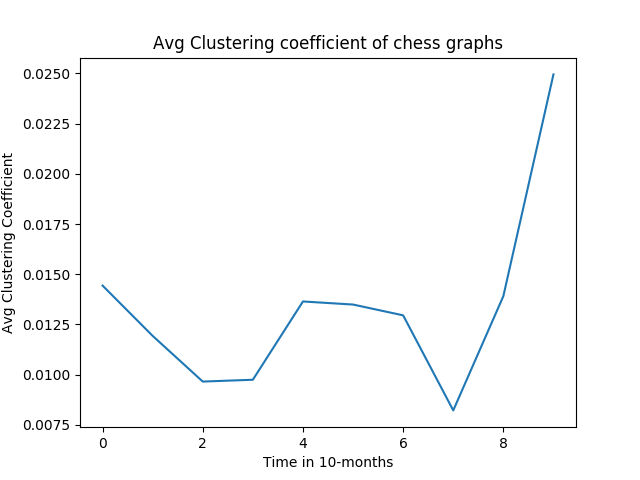
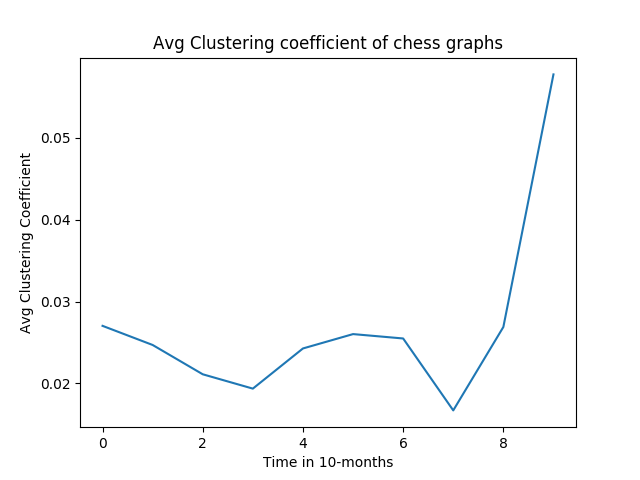
alternative clustering coefficient

diff --git a/analysis/utils/time_evolution.py b/analysis/utils/time_evolution.py
@@ -1,6 +1,7 @@
 from __future__ import division
 import matplotlib.pyplot as plt
 import snap
+from clustering import alternative_clust
 
 
 def density_evolution(graphs, name, time_units, directed=True, verbose=False, duration=None):
@@ -42,11 +43,28 @@ def clust_evolution(graphs, name, time_units, verbose=False, duration=None):
         plt.show()
 
 
+def alternate_clust_evolution(graphs, name, time_units, verbose=False, duration=None):
+    """Plot the time evolution of the alternate avg clustering coefficient of snap graph in graphs"""
+    Y = []
+    for g in graphs:
+        Y.append(alternative_clust(g))
+    X = range(len(Y))
+    if duration is not None:
+        X = range(duration[0], duration[1]+1)
+    plt.plot(X, Y)
+    plt.xlabel("Time in {}".format(time_units))
+    plt.ylabel("Alternate Clustering Coefficient")
+    plt.title("Alternate Clustering coefficient of {} graphs".format(name))
+    plt.savefig("clustAlt_time_{}".format(name))
+    if verbose:
+        plt.show()
+
+
 def active_nodes_evolution(graphs, name, time_units, verbose=False, duration=None):
     """Plot the time evolution of the number of nodes with degree of at least one of snap graph in graphs"""
     Y = []
     for g in graphs:
-        Y.append(g.GetNodes()-snap.CntInDegNodes(g, 0)-snap.CntOutDegNodes(g, 0))
+        Y.append(g.GetNodes()-snap.CntDegNodes(g, 0))
     X = range(len(Y))
     if duration is not None:
         X = range(duration[0], duration[1]+1)

diff --git a/analysis/tennis_women.py b/analysis/tennis_women.py
@@ -16,7 +16,7 @@ if __name__ == '__main__':
     with open(dic_path, 'rb') as dic_id:
         mydict = pickle.load(dic_id)
         G = load.load_global("tennis_women")
-        graphs = load.load_temporal("tennis_women")
+        graphs = load.load_temporal("tennis_women", multi=False)
 
         # Time evolution
         #
@@ -25,6 +25,7 @@ if __name__ == '__main__':
         # evol.active_nodes_evolution(graphs, "tenniswomen", "years", duration = [2007, 2018])
         # evol.edges_evolution(graphs, "tenniswomen", "years", duration = [2007, 2018])
         # evol.max_scc_evolution(graphs, "tenniswomen", "years", duration = [2007, 2018])
+        # evol.alternate_clust_evolution(graphs, "tenniswomen", "years", duration=[2007, 2018])
 
 
 

diff --git a/analysis/chess.py b/analysis/chess.py
@@ -17,7 +17,7 @@ if __name__ == '__main__':
     with open(dic_path, 'rb') as dic_id:
         mydict = pickle.load(dic_id)
         G = load.load_global("chess")
-        graphs = load.load_temporal("chess")
+        graphs = load.load_temporal("chess", multi=False)
 
         # Time evolution
         #
@@ -26,6 +26,7 @@ if __name__ == '__main__':
         # evol.active_nodes_evolution(graphs, "chess", "10-months")
         # evol.edges_evolution(graphs, "chess", "10-months")
         # evol.max_scc_evolution(graphs, "chess", "10-months")
+        # evol.alternate_clust_evolution(graphs, "chess", "10-months")
 
 
 

diff --git a/analysis/utils/clustering.py b/analysis/utils/clustering.py
@@ -1,0 +1,16 @@
+from __future__ import division
+import snap
+
+
+def clustering_WS(graph):
+    """Computes the clustering coefficient by Watts Strogatz definition"""
+    return snap.GetClustCf(graph)
+
+
+def alternative_clust(graph):
+    """Computes the clustering coefficient by taking into account the fraction of inactive nodes"""
+    N = graph.GetNodes()
+    n0 = snap.CntDegNodes(graph, 0)
+    n1 = snap.CntDegNodes(graph, 1)
+    f = 1 / (1 - (n0 + n1) / N)
+    return f*clustering_WS(graph)

diff --git a/analysis/utils/temporal_metrics.py b/analysis/utils/temporal_metrics.py
@@ -29,7 +29,7 @@ def temporal_subgraphs(graphs, nodeV):
 
 def temporal_clust_coef(graphs, nodeID, directed=True):
     """Return the temporal clustering coefficient of node nodeID during graphs based on Watts-Strogatz definition"""
-    t_neighbors = temporal_neighbors(graphs, nodeID, directed)
+    t_neighbors = temporal_neighbors(graphs, nodeID, False)
     subgraphs = temporal_subgraphs(graphs, t_neighbors)
     d = len(subgraphs)
     t_degree = t_neighbors.Len()

diff --git a/analysis/tennis_men.py b/analysis/tennis_men.py
@@ -27,6 +27,7 @@ if __name__ == '__main__':
         # evol.active_nodes_evolution(graphs, "tennismen", "years", duration = [2000, 2018])
         # evol.edges_evolution(graphs, "tennismen", "years", duration = [2000, 2018])
         # evol.max_scc_evolution(graphs, "tennismen", "years", duration = [2000, 2018])
+        # evol.alternate_clust_evolution(graphs, "tennismen", "years", duration=[2000, 2018])
 
 
 

diff --git a/analysis/fencing.py b/analysis/fencing.py
@@ -61,7 +61,7 @@ if __name__ == '__main__':
         # print snap.CommunityGirvanNewman(graph_undirected, CmtyV)
         # print(CmtyV.Len())
 
-        print snap.GetClustCf(graph)
+        # print snap.GetClustCf(graph)
 
         # Get nb of triads, subgraphs formed by 3 nodes
         # print snap.GetTriads(graph)
